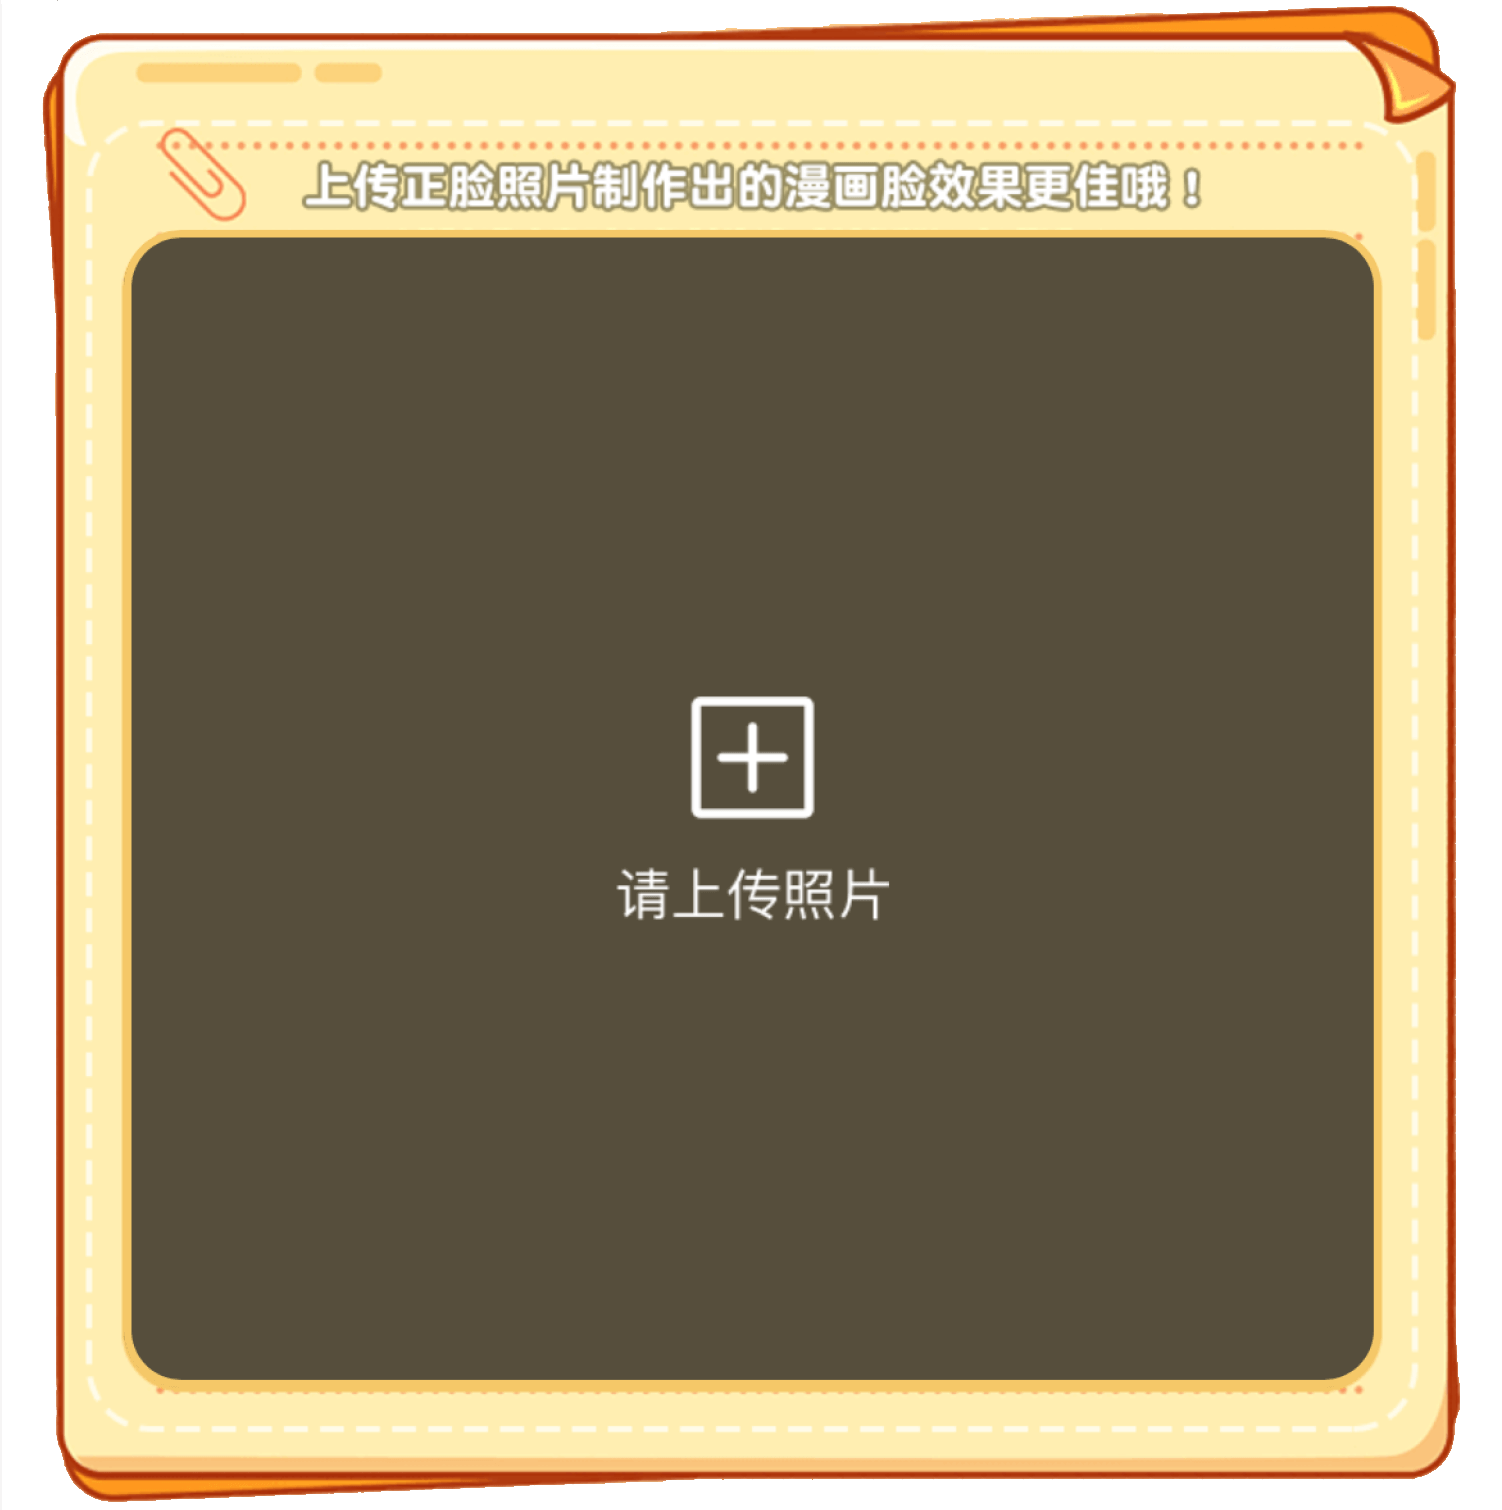
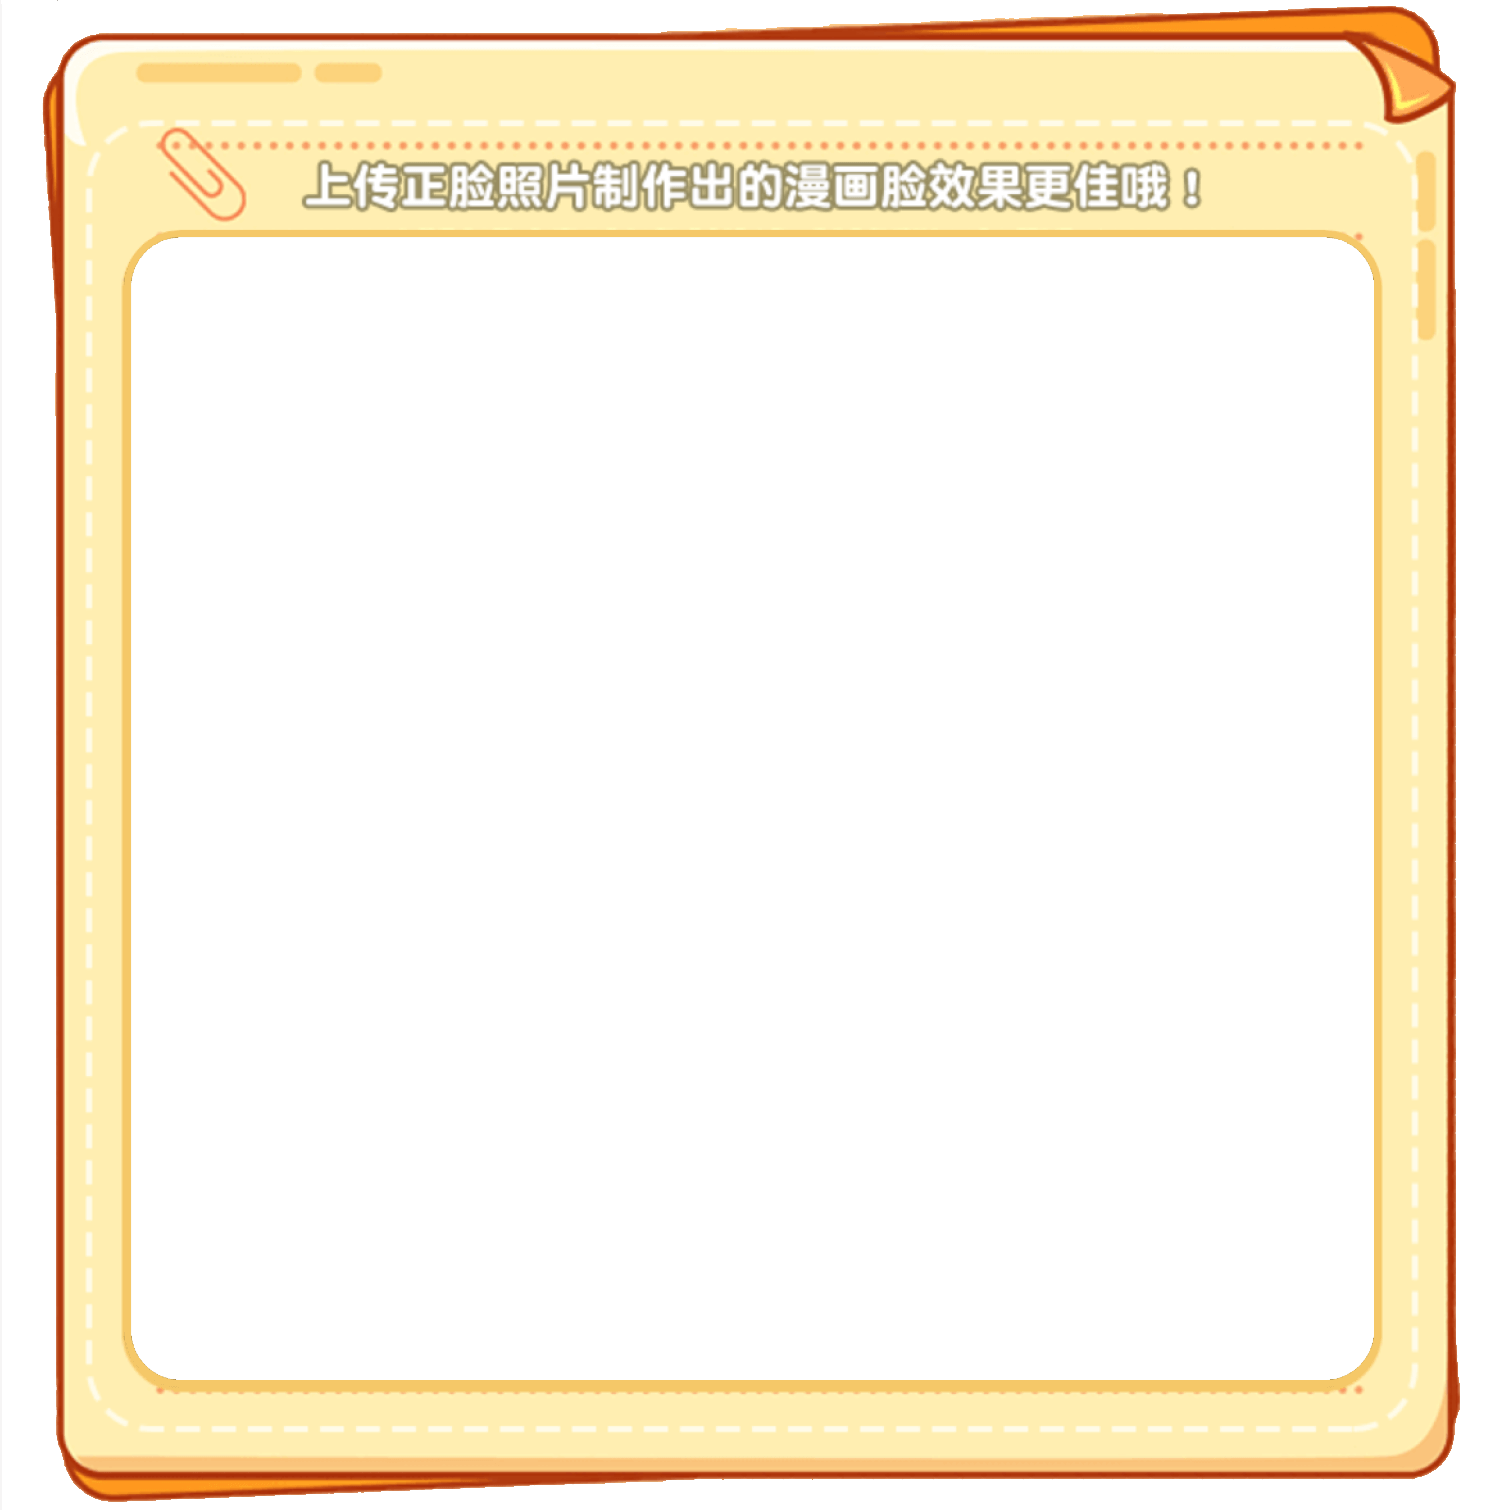
feat: 修改上传图标

diff --git a/src/pages/image-upload/index.scss b/src/pages/image-upload/index.scss
@@ -16,17 +16,54 @@
     position: relative;
     width: 750px;
     height: 755px;
-    .image-upload-ipt {
-      width: 100%;
-      height: 100%;
-    }
-    .image-target {
+    .image-upload-content {
       position: absolute;
       left: 50%;
-      top: 50%;
-      transform: translate(-50%, -50%);
-      width: 512px;
-      max-height: 575px;
+      top: 110px;
+      transform: translate(-50%, 0);
+      width: 634px;
+      height: 600px;
+      background: #564E3C;
+      z-index: 1;
+      .image-target {
+        position: absolute;
+        left: 50%;
+        top: 50%;
+        transform: translate(-50%, -50%);
+        width: 512px;
+        max-height: 575px;
+      }
+      .image-upload {
+        position: absolute;
+        left: 50%;
+        top: 50%;
+        transform: translate(-50%, -50%);
+        display: flex;
+        flex-direction: column;
+        justify-content: center;
+        align-items: center;
+        width: 140px;
+        height: auto;
+        .icon-upload {
+          font-size: 64px;
+          color: #FFFFFF;
+        }
+        .image-upload-text {
+          margin-top: 20px;
+          font-size: 28px;
+          color: #FFFFFF;
+        }
+      }
+    }
+    .image-upload-ipt {
+      display: block;
+      position: absolute;
+      left: 50%;
+      top: 0;
+      transform: translate(-50%, 0);
+      width: 100%;
+      height: 100%;
+      z-index: 10;
     }
   }
   .image-upload-btn {

diff --git a/src/pages/image-upload/index.tsx b/src/pages/image-upload/index.tsx
@@ -69,10 +69,20 @@ export default function PageHistory() {
     <View className='page-image-upload'>
       <Image className='page-image-title' src={assets.imageTitle}></Image>
       <View className='image-upload-container'>
+        <View className='image-upload-content'>
+          {fileUrl && (
+            <Image
+              className='image-target'
+              mode='widthFix'
+              src={fileUrl}
+            ></Image>
+          )}
+          <View className='image-upload'>
+            <View className='iconfont icon-upload image-upload-icon'></View>
+            <View className='image-upload-text'>请上传照片</View>
+          </View>
+        </View>
         <Image className='image-upload-ipt' src={assets.ImageUpload}></Image>
-        {fileUrl && (
-          <Image className='image-target' mode='widthFix' src={fileUrl}></Image>
-        )}
       </View>
       <Image
         className='image-upload-btn'

diff --git a/src/assets/font/iconfont.css b/src/assets/font/iconfont.css
@@ -1,0 +1,17 @@
+@font-face {
+  font-family: "iconfont"; /* Project id  */
+  src: url('iconfont.ttf?t=1691489455024') format('truetype');
+}
+
+.iconfont {
+  font-family: "iconfont" !important;
+  font-size: 16px;
+  font-style: normal;
+  -webkit-font-smoothing: antialiased;
+  -moz-osx-font-smoothing: grayscale;
+}
+
+.icon-upload:before {
+  content: "\e83b";
+}
+

diff --git a/src/app.scss b/src/app.scss
@@ -1,3 +1,5 @@
+@import './assets/font/iconfont.css';
+
 page {
   flex: 1;
   display: flex;
